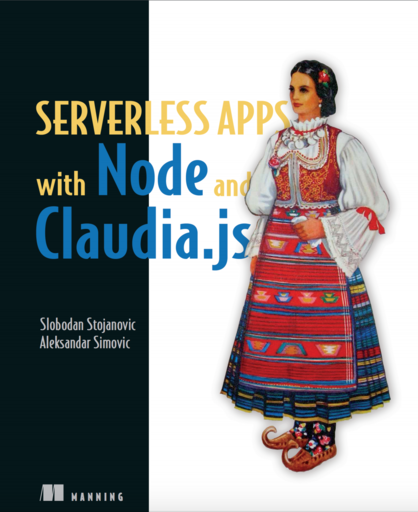
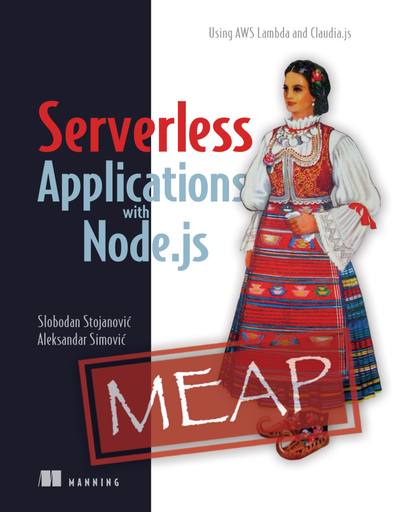
Update book title, link and cover

diff --git a/_layouts/home.html b/_layouts/home.html
@@ -30,7 +30,7 @@ height="0" width="0" style="display:none;visibility:hidden"></iframe></noscript>
           </div>
           <div id="book-description">
             <div class="call-to-action">Checkout our new book!</div>
-            <div id="book-title">Serverless apps with Node and Claudia.js</div>
+            <div id="book-title">Serverless Applications with Node.js</div>
             <div id="book-title-description">All chapters are now available in MEAP!</div>
             <div id="book-actions">
               <a class="book-action-button" href="/book">Learn more</a>

diff --git a/book.md b/book.md
@@ -1,14 +1,14 @@
 ---
 layout: page
 title: Book
-socialtitle: Serverless Apps with Node and Claudia.js
+socialtitle: Serverless Applications with Node.js
 permalink: /book/
 ---
 
-![Serverless Apps with Node and Claudia.js](/images/serverless-apps-node-claudia-book-cover.png)
+![Serverless Applications with Node.js](/images/serverless-apps-node-claudia-book-cover.png)
 {: .book-page-image }
 
-Serverless Apps with Node and Claudia.js walks you through building serverless apps on AWS using JavaScript. Inside, you'll create a full project designed to help you understand and apply general serverless design principles and concepts.
+Serverless Applications with Node.js walks you through building serverless apps on AWS using JavaScript. Inside, you'll create a full project designed to help you understand and apply general serverless design principles and concepts.
 {: .book-page-description}
 
 Along the way, you'll also discover what Claudia brings to the table as you build and deploy a scalable event-based serverless application that is fully integrated with AWS services including Lambda and API Gateway.
@@ -22,7 +22,7 @@ Plus, you'll learn how to migrate your existing Express apps to serverless!
 
 
 You can get your own copy with a 40% discount with promo code `claudia40`.
-<a id="book-buy-btn" href="https://www.manning.com/books/serverless-apps-with-node-and-claudiajs">Get your own copy!</a>
+<a id="book-buy-btn" href="https://www.manning.com/books/serverless-applications-with-nodejs">Get your own copy!</a>
 {: .book-page-discount }
 
 ### What's inside
@@ -39,84 +39,156 @@ Written for beginner and intermediate web developers comfortable with JavaScript
 
 ### Table of contents
 
-<div class="toc">
+<div id="toc" class="toc">
   <h1 id="part_id_1" class="sect0">Part 1: Serverless Pizzeria</h1>
   <div class="sect1 available free">
     <span class="book_actions">
-    <a class="view-in-livebook" href="https://livebook.manning.com/#!/book/serverless-apps-with-node-and-claudiajs/chapter-1/" title="Read in liveBook" target="_blank">
-    <span class="fa fa-eye"></span>
-    <span class="sr-only">Read in liveBook</span>
-    </a>
+      <a class="view-in-livebook" href="https://livebook.manning.com/#!/book/serverless-applications-with-nodejs/chapter-1/" title="Read in liveBook" target="_blank">
+        <span class="fa fa-eye"></span>
+        <span class="sr-only">Read in liveBook</span>
+      </a>
     </span>
-    <h2 id="chapter_id_1" data-toggle="tooltip" data-placement="left" title="" data-original-title="Available">1. Introduction to serverless with Claudia<a href="#downloads" class="download-link"><span class="free-badge"></span></a></h2>
+    <h2 id="chapter_id_1">1 Introduction to serverless with Claudia</h2>
   </div>
   <div class="sect1 available">
-    <span class="book_actions"><a class="view-in-livebook" href="https://livebook.manning.com/#!/book/serverless-apps-with-node-and-claudiajs/chapter-2/" title="Read in liveBook" target="_blank"><span class="fa fa-eye"></span><span class="sr-only">Read in liveBook</span></a></span>
-    <h2 id="chapter_id_2" data-toggle="tooltip" data-placement="left" title="" data-original-title="Available">2. Building your first serverless API</h2>
+    <span class="book_actions">
+      <a class="view-in-livebook" href="https://livebook.manning.com/#!/book/serverless-applications-with-nodejs/chapter-2/" title="Read in liveBook" target="_blank">
+        <span class="fa fa-eye"></span>
+        <span class="sr-only">Read in liveBook</span>
+      </a>
+    </span>
+    <h2 id="chapter_id_2">2 Building your first serverless API</h2>
   </div>
   <div class="sect1 available">
-    <span class="book_actions"><a class="view-in-livebook" href="https://livebook.manning.com/#!/book/serverless-apps-with-node-and-claudiajs/chapter-3/" title="Read in liveBook" target="_blank"><span class="fa fa-eye"></span><span class="sr-only">Read in liveBook</span></a></span>
-    <h2 id="chapter_id_3" data-toggle="tooltip" data-placement="left" title="" data-original-title="Available">3. Asynchronous work is easy, we Promise()</h2>
+    <span class="book_actions">
+      <a class="view-in-livebook" href="https://livebook.manning.com/#!/book/serverless-applications-with-nodejs/chapter-3/" title="Read in liveBook" target="_blank">
+        <span class="fa fa-eye"></span>
+        <span class="sr-only">Read in liveBook</span>
+      </a>
+    </span>
+    <h2 id="chapter_id_3">3 Asynchronous work is easy, we Promise()</h2>
   </div>
-  <div class="sect1">
-    <h2 id="chapter_id_4">4. Pizza Delivery — connecting an external service</h2>
-    <div class="sectionbody hidden-toc">
-    </div>
+  <div class="sect1 available">
+    <span class="book_actions">
+      <a class="view-in-livebook" href="https://livebook.manning.com/#!/book/serverless-applications-with-nodejs/chapter-4/" title="Read in liveBook" target="_blank">
+        <span class="fa fa-eye"></span>
+        <span class="sr-only">Read in liveBook</span>
+      </a>
+    </span>
+    <h2 id="chapter_id_4">4 Pizza delivery: Connecting an external service</h2>
   </div>
-  <div class="sect1">
-    <h2 id="chapter_id_5">5. Houston, we have a problem!</h2>
-    <div class="sectionbody hidden-toc">
-    </div>
+  <div class="sect1 available">
+    <span class="book_actions">
+      <a class="view-in-livebook" href="https://livebook.manning.com/#!/book/serverless-applications-with-nodejs/chapter-5/" title="Read in liveBook" target="_blank">
+        <span class="fa fa-eye"></span>
+        <span class="sr-only">Read in liveBook</span>
+      </a>
+    </span>
+    <h2 id="chapter_id_5">5 Houston, we have a problem!</h2>
   </div>
-  <div class="sect1">
-    <h2 id="chapter_id_6">6. Level up your APIs</h2>
-    <div class="sectionbody hidden-toc">
-    </div>
+  <div class="sect1 available">
+    <span class="book_actions">
+      <a class="view-in-livebook" href="https://livebook.manning.com/#!/book/serverless-applications-with-nodejs/chapter-6/" title="Read in liveBook" target="_blank">
+        <span class="fa fa-eye"></span>
+        <span class="sr-only">Read in liveBook</span>
+      </a>
+    </span>
+    <h2 id="chapter_id_6">6 Level up your API</h2>
   </div>
-  <div class="sect1">
-    <h2 id="chapter_id_7">7. Working with files</h2>
-    <div class="sectionbody hidden-toc">
-    </div>
+  <div class="sect1 available">
+    <span class="book_actions">
+      <a class="view-in-livebook" href="https://livebook.manning.com/#!/book/serverless-applications-with-nodejs/chapter-7/" title="Read in liveBook" target="_blank">
+        <span class="fa fa-eye"></span>
+        <span class="sr-only">Read in liveBook</span>
+      </a>
+    </span>
+    <h2 id="chapter_id_7">7 Working with files</h2>
   </div>
-  <h1 id="part_id_2" class="sect0">Part 2: Let’s Talk</h1>
-  <div class="sect1">
-    <h2 id="chapter_id_8">8. When Pizza is one message away - Chatbots</h2>
-    <div class="sectionbody hidden-toc">
-    </div>
+  <h1 id="part_id_2" class="sect0">Part 2: Let&#8217;s Talk</h1>
+  <div class="sect1 available">
+    <span class="book_actions">
+      <a class="view-in-livebook" href="https://livebook.manning.com/#!/book/serverless-applications-with-nodejs/chapter-8/" title="Read in liveBook" target="_blank">
+        <span class="fa fa-eye"></span>
+        <span class="sr-only">Read in liveBook</span>
+      </a>
+    </span>
+    <h2 id="chapter_id_8">8 When pizza is one message away: Chatbots</h2>
   </div>
-  <div class="sect1">
-    <h2 id="chapter_id_9">9. Typing… Async and delayed responses</h2>
-    <div class="sectionbody hidden-toc">
-    </div>
+  <div class="sect1 available">
+    <span class="book_actions">
+      <a class="view-in-livebook" href="https://livebook.manning.com/#!/book/serverless-applications-with-nodejs/chapter-9/" title="Read in liveBook" target="_blank">
+        <span class="fa fa-eye"></span>
+        <span class="sr-only">Read in liveBook</span>
+      </a>
+    </span>
+    <h2 id="chapter_id_9">9 Typing&#8230;&#8203; Async and delayed responses</h2>
   </div>
-  <div class="sect1">
-    <h2 id="chapter_id_10">10. Blah, blah, blah</h2>
-    <div class="sectionbody hidden-toc">
-    </div>
+  <div class="sect1 available">
+    <span class="book_actions">
+      <a class="view-in-livebook" href="https://livebook.manning.com/#!/book/serverless-applications-with-nodejs/chapter-10/" title="Read in liveBook" target="_blank">
+        <span class="fa fa-eye"></span>
+        <span class="sr-only">Read in liveBook</span>
+      </a>
+    </span>
+    <h2 id="chapter_id_10">10 Jarvis, I mean Alexa, order me a pizza</h2>
   </div>
   <h1 id="part_id_3" class="sect0">Part 3: Next Steps</h1>
-  <div class="sect1">
-    <h2 id="chapter_id_11">11. Testing, testing, 1, 2, 3</h2>
-    <div class="sectionbody hidden-toc">
-    </div>
+  <div class="sect1 available">
+    <span class="book_actions">
+      <a class="view-in-livebook" href="https://livebook.manning.com/#!/book/serverless-applications-with-nodejs/chapter-11/" title="Read in liveBook" target="_blank">
+        <span class="fa fa-eye"></span>
+        <span class="sr-only">Read in liveBook</span>
+      </a>
+    </span>
+    <h2 id="chapter_id_11">11 Testing, Testing, 1, 2, 3</h2>
   </div>
-  <div class="sect1">
-    <h2 id="chapter_id_12">12. Pay for pizza</h2>
-    <div class="sectionbody hidden-toc">
-    </div>
+  <div class="sect1 available">
+    <span class="book_actions">
+      <a class="view-in-livebook" href="https://livebook.manning.com/#!/book/serverless-applications-with-nodejs/chapter-12/" title="Read in liveBook" target="_blank">
+        <span class="fa fa-eye"></span>
+        <span class="sr-only">Read in liveBook</span>
+      </a>
+    </span>
+    <h2 id="chapter_id_12">12 Paying for pizza</h2>
   </div>
-  <div class="sect1">
-    <h2 id="chapter_id_13">13. Migrate your existing Express app to AWS Lambda</h2>
-    <div class="sectionbody hidden-toc">
-    </div>
+  <div class="sect1 available">
+    <span class="book_actions">
+      <a class="view-in-livebook" href="https://livebook.manning.com/#!/book/serverless-applications-with-nodejs/chapter-13/" title="Read in liveBook" target="_blank">
+        <span class="fa fa-eye"></span>
+        <span class="sr-only">Read in liveBook</span>
+      </a>
+    </span>
+    <h2 id="chapter_id_13">13 Migrating your existing Express.js app to AWS Lambda</h2>
   </div>
-  <div class="sect1">
-    <h2 id="chapter_id_14">14. Serverless architecture</h2>
-    <div class="sectionbody hidden-toc">
-    </div>
+  <div class="sect1 available">
+    <span class="book_actions">
+      <a class="view-in-livebook" href="https://livebook.manning.com/#!/book/serverless-applications-with-nodejs/chapter-14/" title="Read in liveBook" target="_blank">
+        <span class="fa fa-eye"></span>
+        <span class="sr-only">Read in liveBook</span>
+      </a>
+    </span>
+    <h2 id="chapter_id_14">14 Migrating to serverless</h2>
+  </div>
+  <div class="sect1 available">
+    <span class="book_actions">
+      <a class="view-in-livebook" href="https://livebook.manning.com/#!/book/serverless-applications-with-nodejs/chapter-15/" title="Read in liveBook" target="_blank">
+        <span class="fa fa-eye"></span>
+        <span class="sr-only">Read in liveBook</span>
+      </a>
+    </span>
+    <h2 id="chapter_id_15">15 Real-world case studies</h2>
   </div>
   <h1 id="part" class="sect0">Appendixes</h1>
   <div class="sect1 available">
-    <h2 id="_installation_and_configuration" data-toggle="tooltip" data-placement="left" title="" data-original-title="Available">Appendix A: Installation and configuration</h2>
+    <h2 id="_a_installation_and_configuration">Appendix A: A Installation and configuration</h2>
+  </div>
+  <div class="sect1 available">
+    <h2 id="_b_facebook_messenger_twilio_and_alexa_configuration">Appendix B: B Facebook Messenger, Twilio, and Alexa configuration</h2>
+  </div>
+  <div class="sect1 available">
+    <h2 id="_c_stripe_and_mongodb_setup">Appendix C: C Stripe and MongoDB setup</h2>
+  </div>
+  <div class="sect1 available">
+    <h2 id="_d_the_pizza_recipe">Appendix D: D The pizza recipe</h2>
   </div>
 </div>

diff --git a/about.md b/about.md
@@ -4,7 +4,7 @@ title: About
 permalink: /about/
 ---
 
-Slobodan Stojanović and Aleksandar Simović are core contributors to the Claudia.js project and are the lead developers and maintainers of Claudia Bot Builder. They are also co-authors of [_Serverless apps with Node and Claudia.js_](/book) and conference speakers.
+Slobodan Stojanović and Aleksandar Simović are core contributors to the Claudia.js project and are the lead developers and maintainers of Claudia Bot Builder. They are also co-authors of [_Serverless Applications with Node.js_](/book) and conference speakers.
 
 **Aleksandar** has been a senior software consultant and engineer for over 7 years, mostly but not only, in JavaScript. He also dabbles in Swift, Python, Rust. Aleksandar is based in Belgrade and is co-organizer of the JS Belgrade meetups.
 
